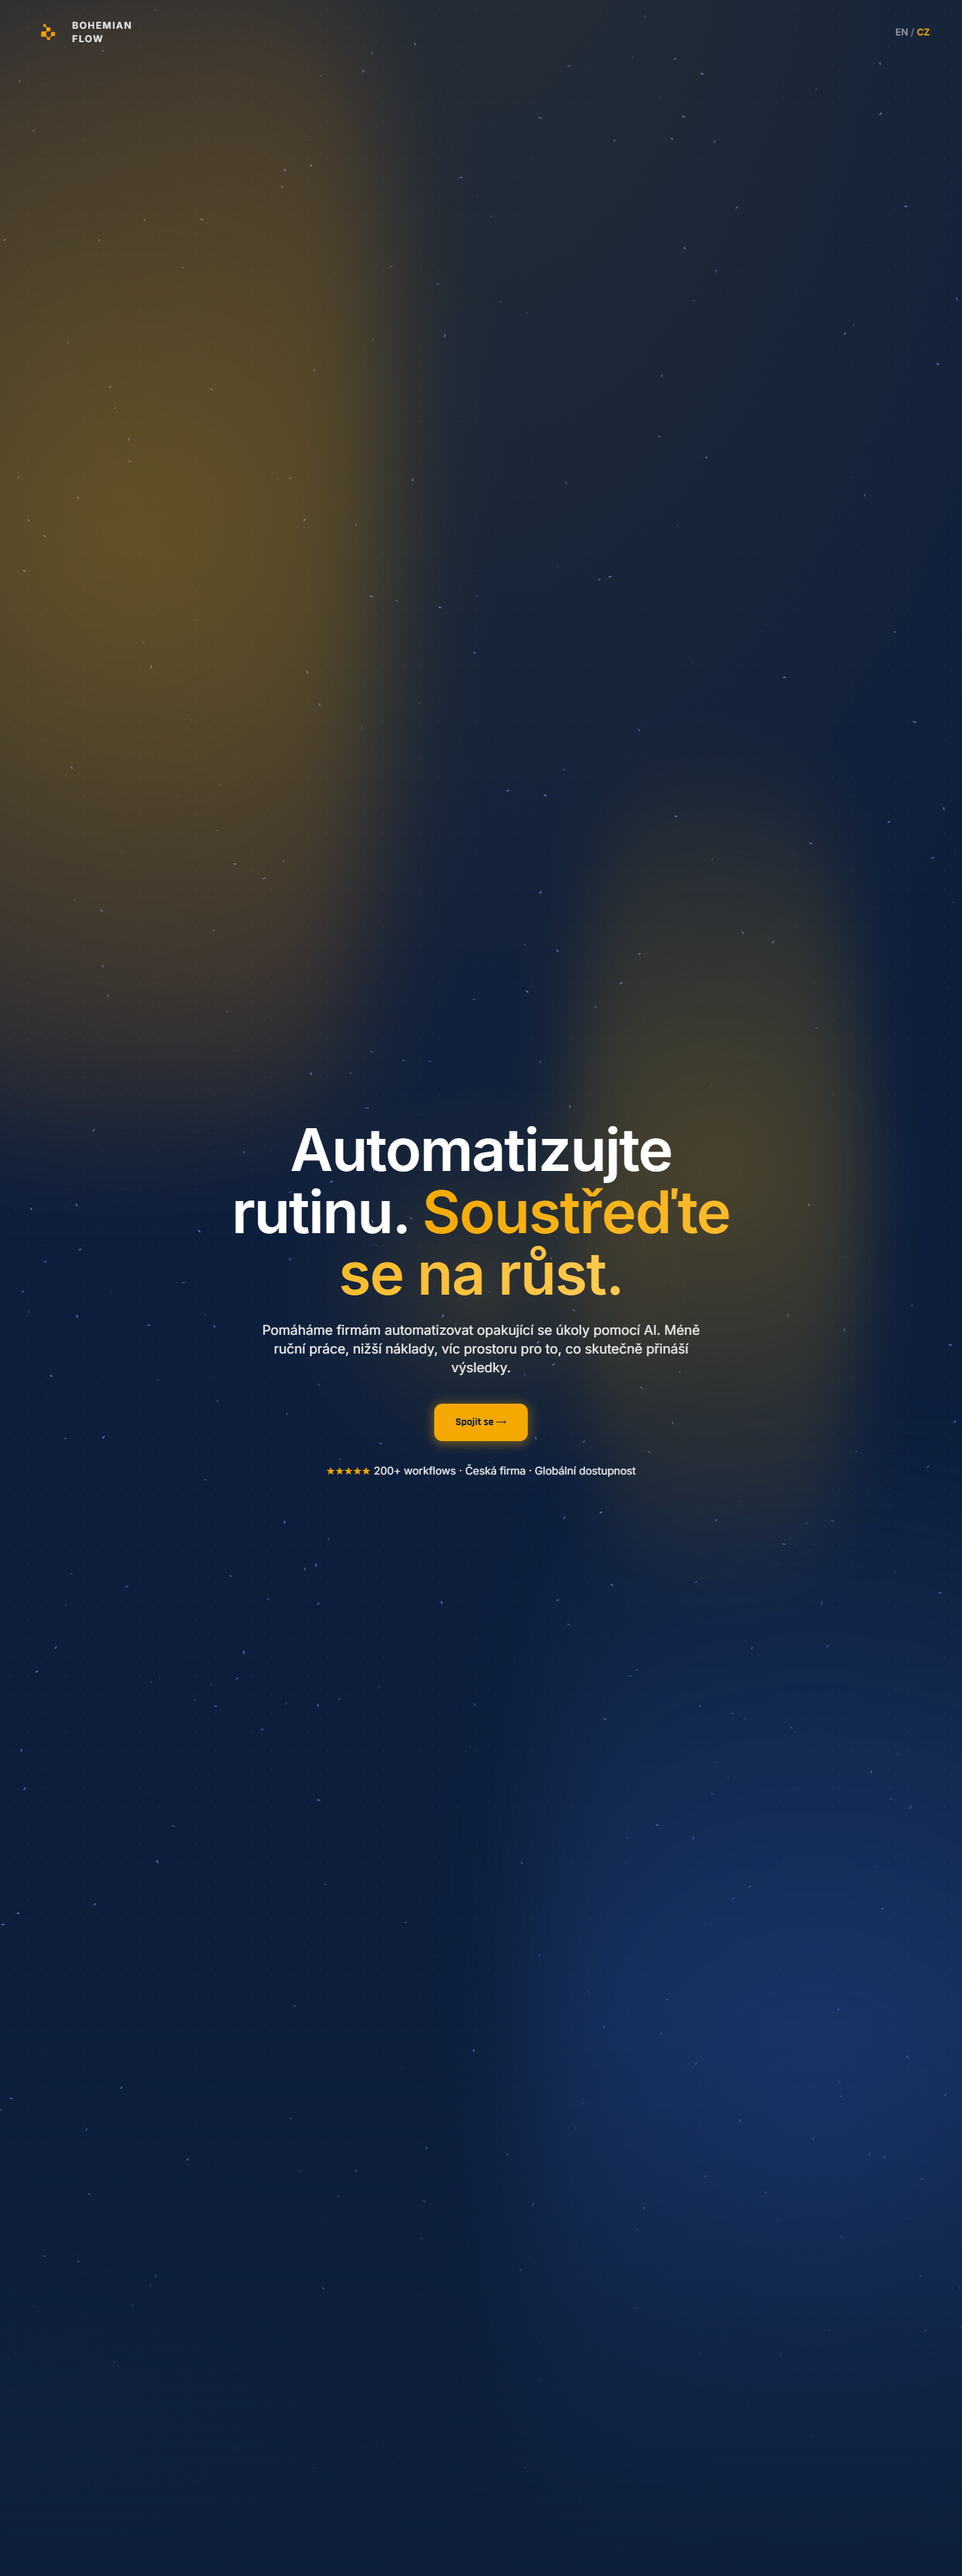
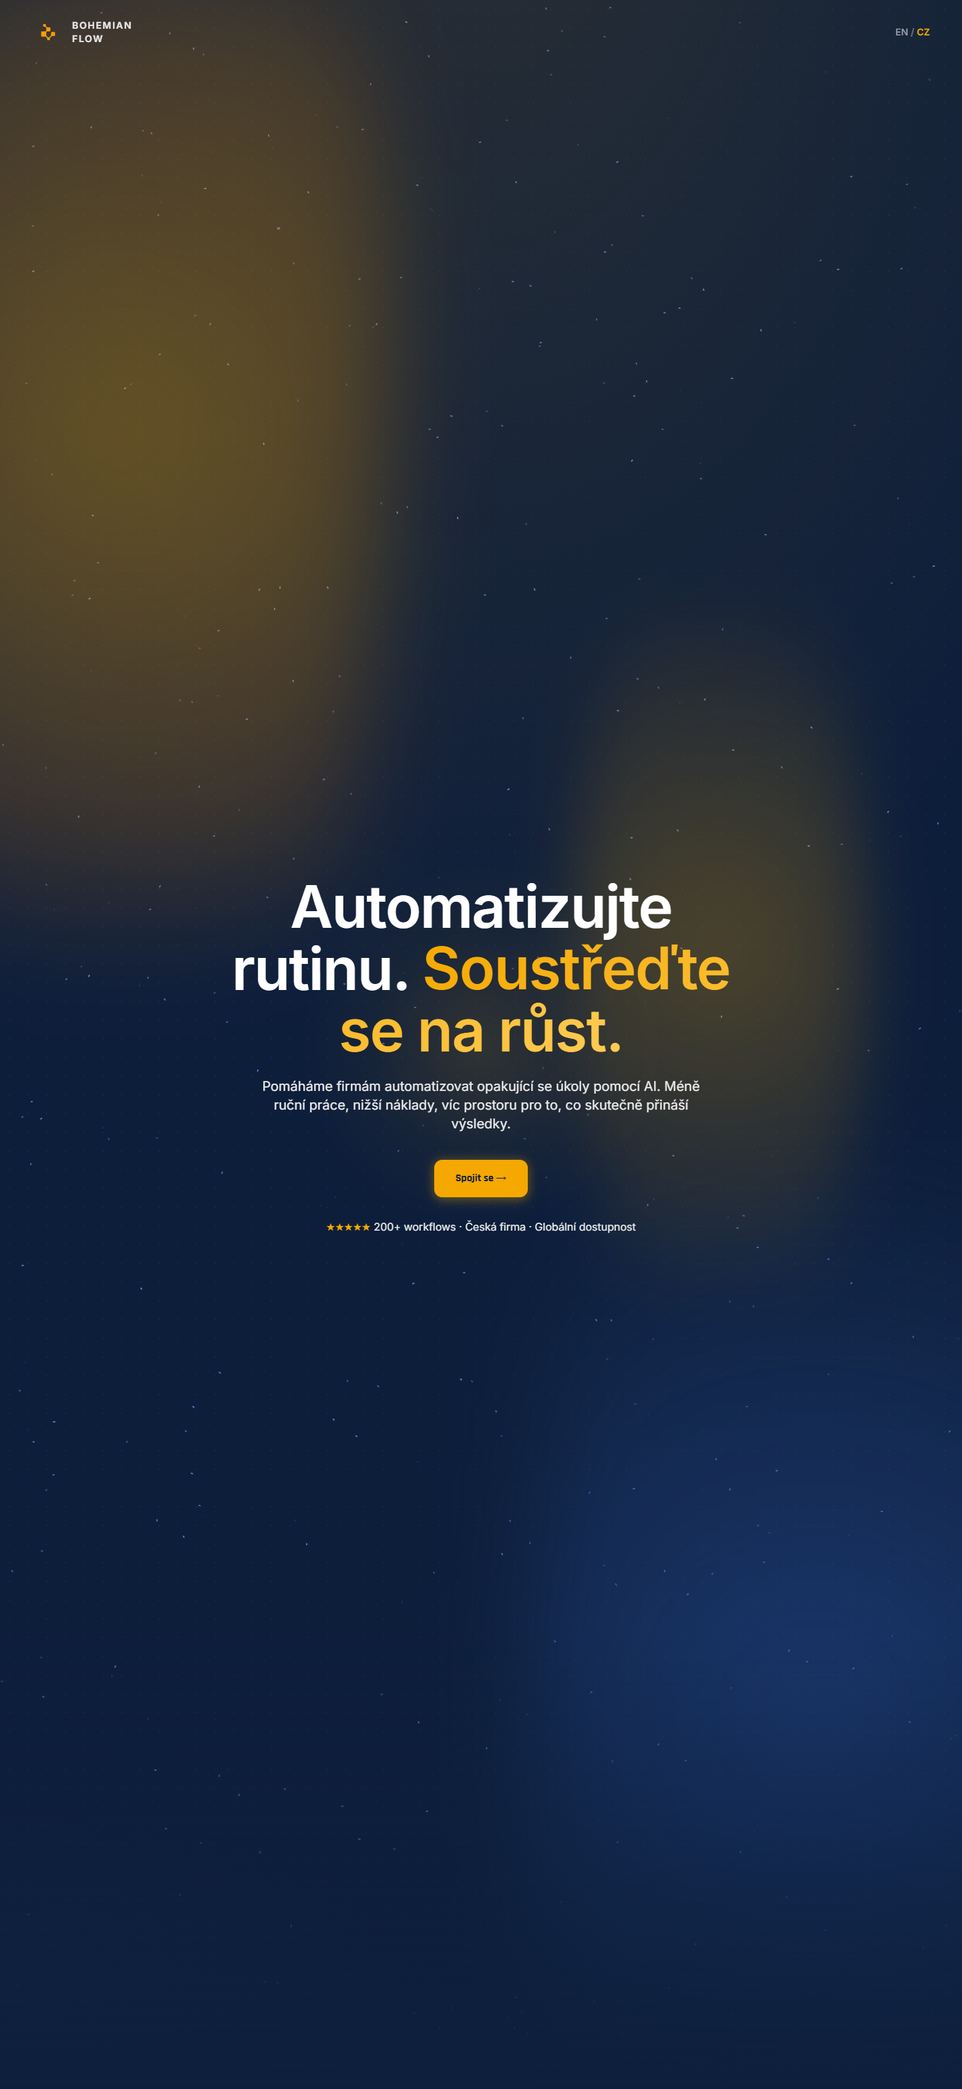
Update website content and screenshots

Changed region(s): [[0.25, 0.4035, 0.75, 0.5898], [0.0625, 0.0, 0.125, 0.031]]

diff --git a/index.html b/index.html
@@ -681,8 +681,7 @@
 
       <!-- Social Proof -->
       <div class="reveal reveal-delay-5 text-ghost text-sm md:text-base">
-        <span class="star">★</span><span class="star">★</span><span class="star">★</span><span class="star">★</span><span class="star">★</span>
-        <span data-i18n="hero.social_proof">200+ workflows delivered · Czech-based · Available globally</span>
+        <span data-i18n="hero.social_proof">Czech-based · Available globally</span>
       </div>
     </div>
   </section>
@@ -799,53 +798,6 @@
           <span class="inline-block bg-orange/12 text-orange text-xs font-semibold uppercase tracking-wider px-3 py-1 rounded-md mb-4" data-i18n="topics.t8.tag">Process</span>
           <h3 class="font-display font-bold text-lg text-white mb-2" data-i18n="topics.t8.title">Business Process Design</h3>
           <p class="text-ghost text-sm" data-i18n="topics.t8.desc">SOP to automation conversion and optimization.</p>
-        </div>
-      </div>
-    </div>
-  </section>
-
-  <!-- REVIEWS SECTION -->
-  <section id="reviews" class="py-20 md:py-28 px-6 md:px-12 bg-navy border-t border-orange/10">
-    <div class="max-w-7xl mx-auto">
-      <!-- Section Header -->
-      <div class="text-center mb-16 reveal">
-        <p class="text-orange font-display font-semibold uppercase tracking-widest text-xs mb-3" data-i18n="reviews.label">Client Reviews</p>
-        <h2 class="text-white font-display font-bold" style="font-size: var(--text-section); line-height: 1.1;" data-i18n="reviews.heading">What Clients Say</h2>
-      </div>
-
-      <!-- Review Cards -->
-      <div class="grid grid-cols-1 md:grid-cols-3 gap-6 lg:gap-8">
-        <!-- Review 1 -->
-        <div class="card-hover bg-navy-light rounded-2xl p-8 reveal reveal-delay-1 flex flex-col">
-          <span class="text-orange font-display font-bold text-5xl leading-none mb-4">"</span>
-          <p class="text-ghost leading-7 flex-1" data-i18n="reviews.r1_quote">Bohemian Flow automated our entire lead pipeline in under two weeks. ROI was immediate.</p>
-          <div class="mt-6 pt-6 border-t border-white/10">
-            <div class="flex items-center gap-1 text-orange text-sm mb-2">★★★★★</div>
-            <p class="text-white font-semibold text-sm" data-i18n="reviews.r1_name">Jan Novák</p>
-            <p class="text-ghost text-xs mt-0.5" data-i18n="reviews.r1_company">CEO, TechStart s.r.o.</p>
-          </div>
-        </div>
-
-        <!-- Review 2 -->
-        <div class="card-hover bg-navy-light rounded-2xl p-8 reveal reveal-delay-2 flex flex-col">
-          <span class="text-orange font-display font-bold text-5xl leading-none mb-4">"</span>
-          <p class="text-ghost leading-7 flex-1" data-i18n="reviews.r2_quote">Finally someone who actually delivers. Our n8n workflows run flawlessly.</p>
-          <div class="mt-6 pt-6 border-t border-white/10">
-            <div class="flex items-center gap-1 text-orange text-sm mb-2">★★★★★</div>
-            <p class="text-white font-semibold text-sm" data-i18n="reviews.r2_name">Sarah Mitchell</p>
-            <p class="text-ghost text-xs mt-0.5" data-i18n="reviews.r2_company">Operations Manager, Growly</p>
-          </div>
-        </div>
-
-        <!-- Review 3 -->
-        <div class="card-hover bg-navy-light rounded-2xl p-8 reveal reveal-delay-3 flex flex-col">
-          <span class="text-orange font-display font-bold text-5xl leading-none mb-4">"</span>
-          <p class="text-ghost leading-7 flex-1" data-i18n="reviews.r3_quote">Jakub understood our requirements from day one and delivered a precise, well-executed solution. Clean process, measurable results — exactly what we needed.</p>
-          <div class="mt-6 pt-6 border-t border-white/10">
-            <div class="flex items-center gap-1 text-orange text-sm mb-2">★★★★★</div>
-            <p class="text-white font-semibold text-sm" data-i18n="reviews.r3_name">Martin Dvořák</p>
-            <p class="text-ghost text-xs mt-0.5" data-i18n="reviews.r3_company">Founder, Scalable.io</p>
-          </div>
         </div>
       </div>
     </div>

diff --git a/translations/cs.js b/translations/cs.js
@@ -15,7 +15,7 @@ window.translations.cs = {
     subheading:   'Pomáháme firmám automatizovat opakující se úkoly pomocí AI. Méně ruční práce, nižší náklady, víc prostoru pro to, co skutečně přináší výsledky.',
     cta_primary:  'Spojit se →',
     cta_secondary:'Zobrazit naše práce ↓',
-    social_proof: '200+ workflows · Česká firma · Globální dostupnost'
+    social_proof: 'Česká firma · Globální dostupnost'
   },
   howWeWork: {
     label:   'Náš proces',
@@ -40,19 +40,6 @@ window.translations.cs = {
     t6: { tag: 'Data',     title: 'Scraping & datové pipeline',   desc: 'Automaticky sbíráme data z webu a ukládáme je přehledně na jedno místo. Vždy aktuální, čistá data připravená k dalšímu využití.' },
     t7: { tag: 'Chat',     title: 'Hlasová & chatová rozhraní',   desc: 'Stavíme chatboty pro WhatsApp, Telegram, Slack i vlastní AI asistenty. Vaše firma zůstává dostupná na každém kanálu, nepřetržitě.' },
     t8: { tag: 'Agenti',   title: 'Architektura AI agentů',       desc: 'Stavíme AI agenty, kteří myslí a jednají samostatně, bez toho, aby je kdokoli řídil. Zvládnou složité úkoly sami nebo ve spolupráci s dalšími agenty.' }
-  },
-  reviews: {
-    label:   'Reference klientů',
-    heading: 'Co říkají klienti',
-    r1_quote:   'Bohemian Flow automatizoval celý náš lead pipeline za méně než dva týdny. ROI bylo okamžité.',
-    r1_name:    'Jan Novák',
-    r1_company: 'CEO, TechStart s.r.o.',
-    r2_quote:   'Konečně někdo, kdo opravdu dodává. Naše n8n workflows běží bezchybně.',
-    r2_name:    'Sarah Mitchell',
-    r2_company: 'Operations Manager, Growly',
-    r3_quote:   'Jakub od prvního dne rozuměl našim požadavkům a dodal přesné, kvalitně zpracované řešení. Čistý proces, měřitelné výsledky — přesně to, co jsme potřebovali.',
-    r3_name:    'Martin Dvořák',
-    r3_company: 'Founder, Scalable.io'
   },
   about: {
     label:        'O mně',

diff --git a/translations/en.js b/translations/en.js
@@ -15,7 +15,7 @@ window.translations.en = {
     subheading:   'We help businesses automate repetitive tasks with AI. Less manual work, lower costs, more room for what actually drives results.',
     cta_primary:  'Get in Touch →',
     cta_secondary:'See Our Work ↓',
-    social_proof: '200+ workflows delivered · Czech-based · Available globally'
+    social_proof: 'Czech-based · Available globally'
   },
   howWeWork: {
     label:   'Our Process',
@@ -40,19 +40,6 @@ window.translations.en = {
     t6: { tag: 'Data',     title: 'Scraping & Data Pipelines',  desc: 'We automatically collect data from the web and store it cleanly in one place. Always up-to-date, structured data ready to use.' },
     t7: { tag: 'Chat',     title: 'Voice & Chat Interfaces',    desc: 'We build chatbots for WhatsApp, Telegram, Slack, and custom AI assistants. Your business stays reachable on every channel, around the clock.' },
     t8: { tag: 'Agents',   title: 'AI Agent Architecture',      desc: 'We build AI agents that think and act on their own, without anyone managing them. They handle complex tasks independently or work together with other agents.' }
-  },
-  reviews: {
-    label:   'Client Reviews',
-    heading: 'What Clients Say',
-    r1_quote:   'Bohemian Flow automated our entire lead pipeline in under two weeks. ROI was immediate.',
-    r1_name:    'Jan Novák',
-    r1_company: 'CEO, TechStart s.r.o.',
-    r2_quote:   'Finally someone who actually delivers. Our n8n workflows run flawlessly.',
-    r2_name:    'Sarah Mitchell',
-    r2_company: 'Operations Manager, Growly',
-    r3_quote:   'Jakub understood our requirements from day one and delivered a precise, well-executed solution. Clean process, measurable results — exactly what we needed.',
-    r3_name:    'Martin Dvořák',
-    r3_company: 'Founder, Scalable.io'
   },
   about: {
     label:      'About',
